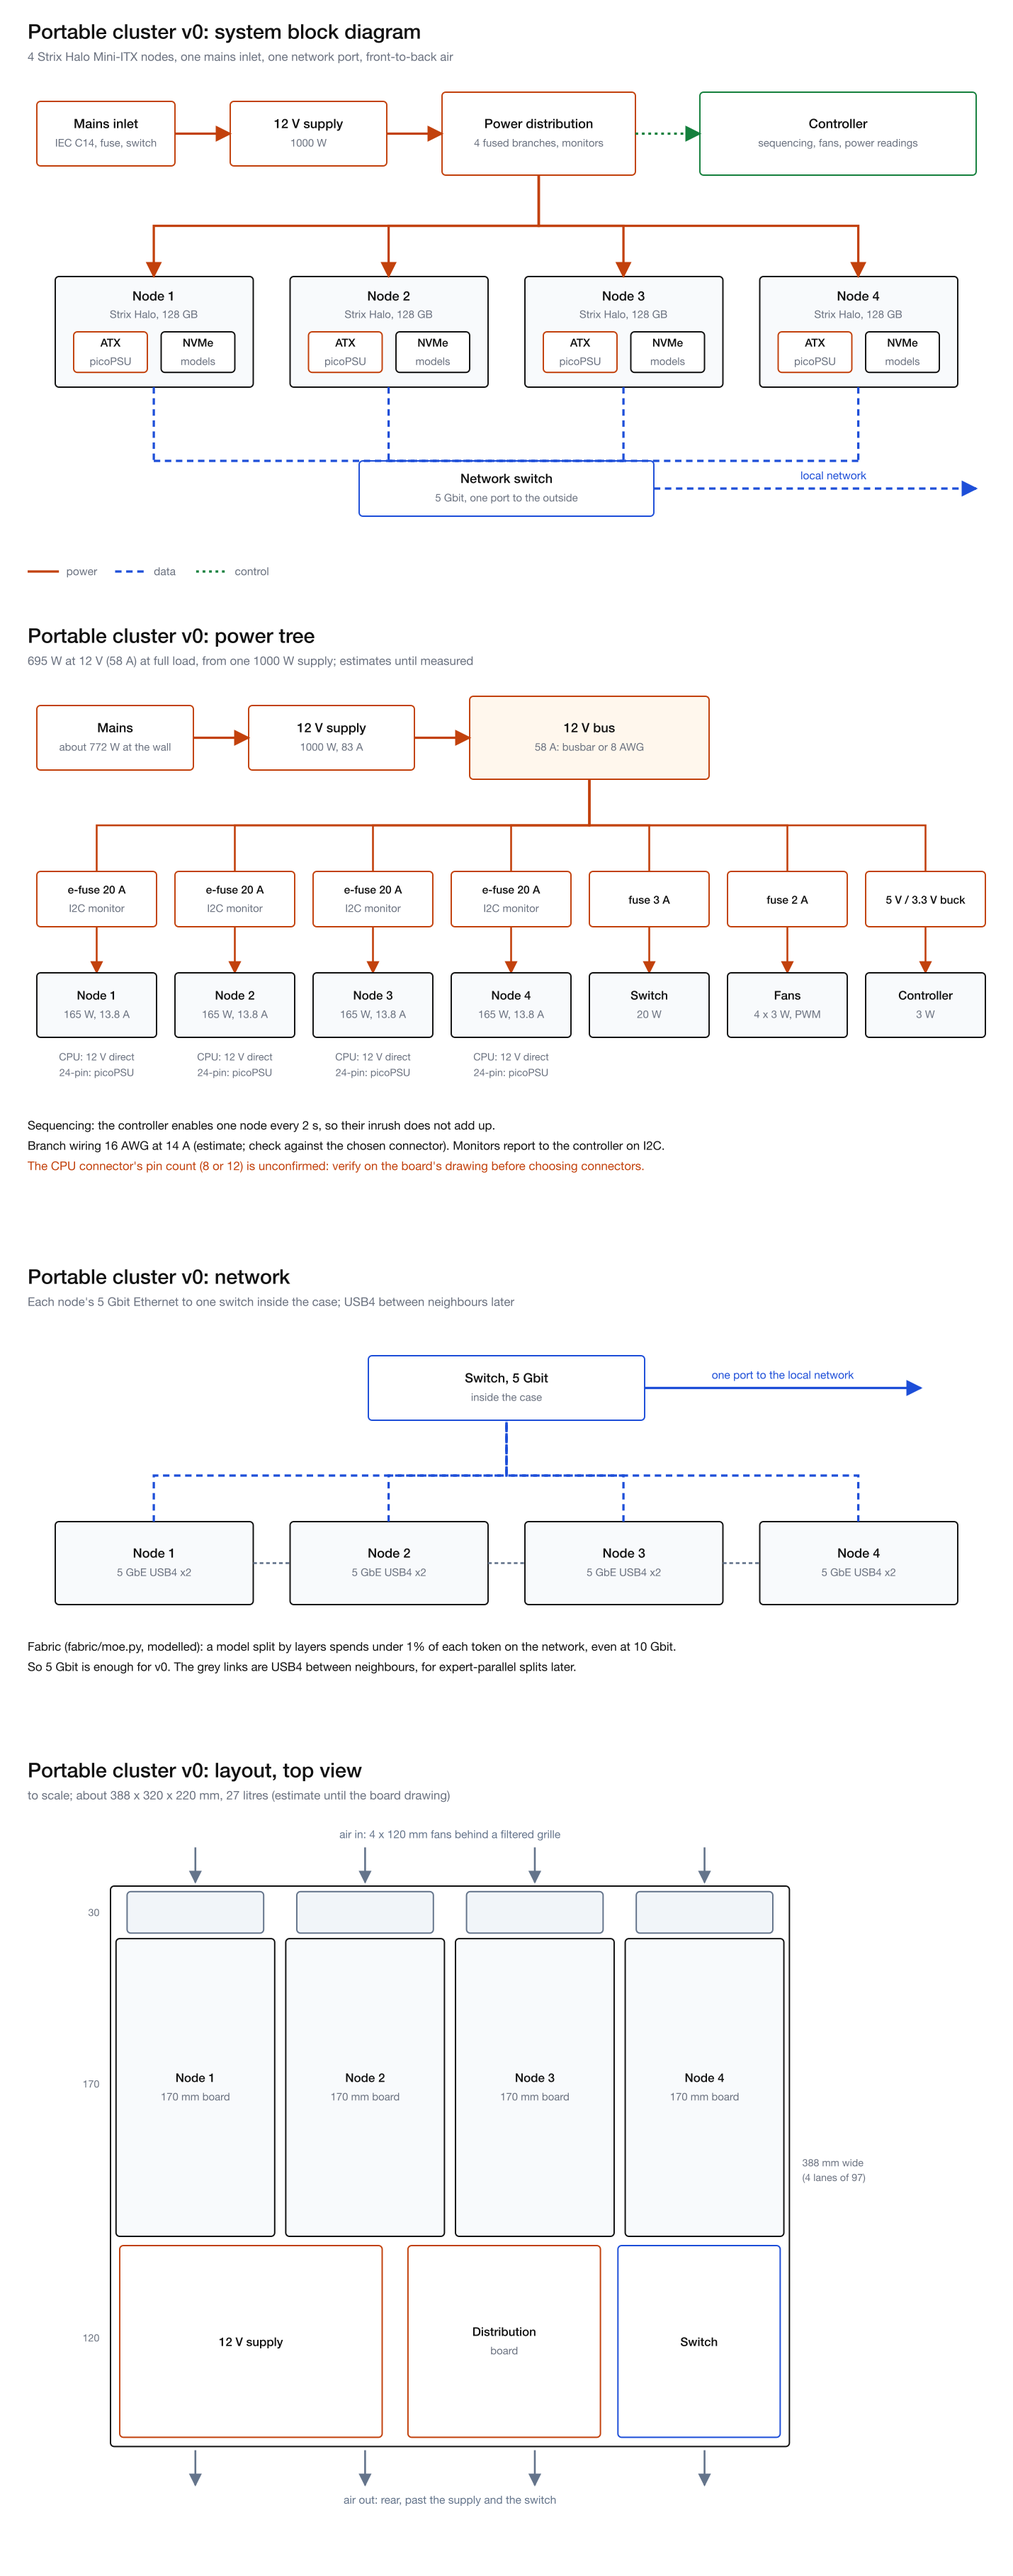
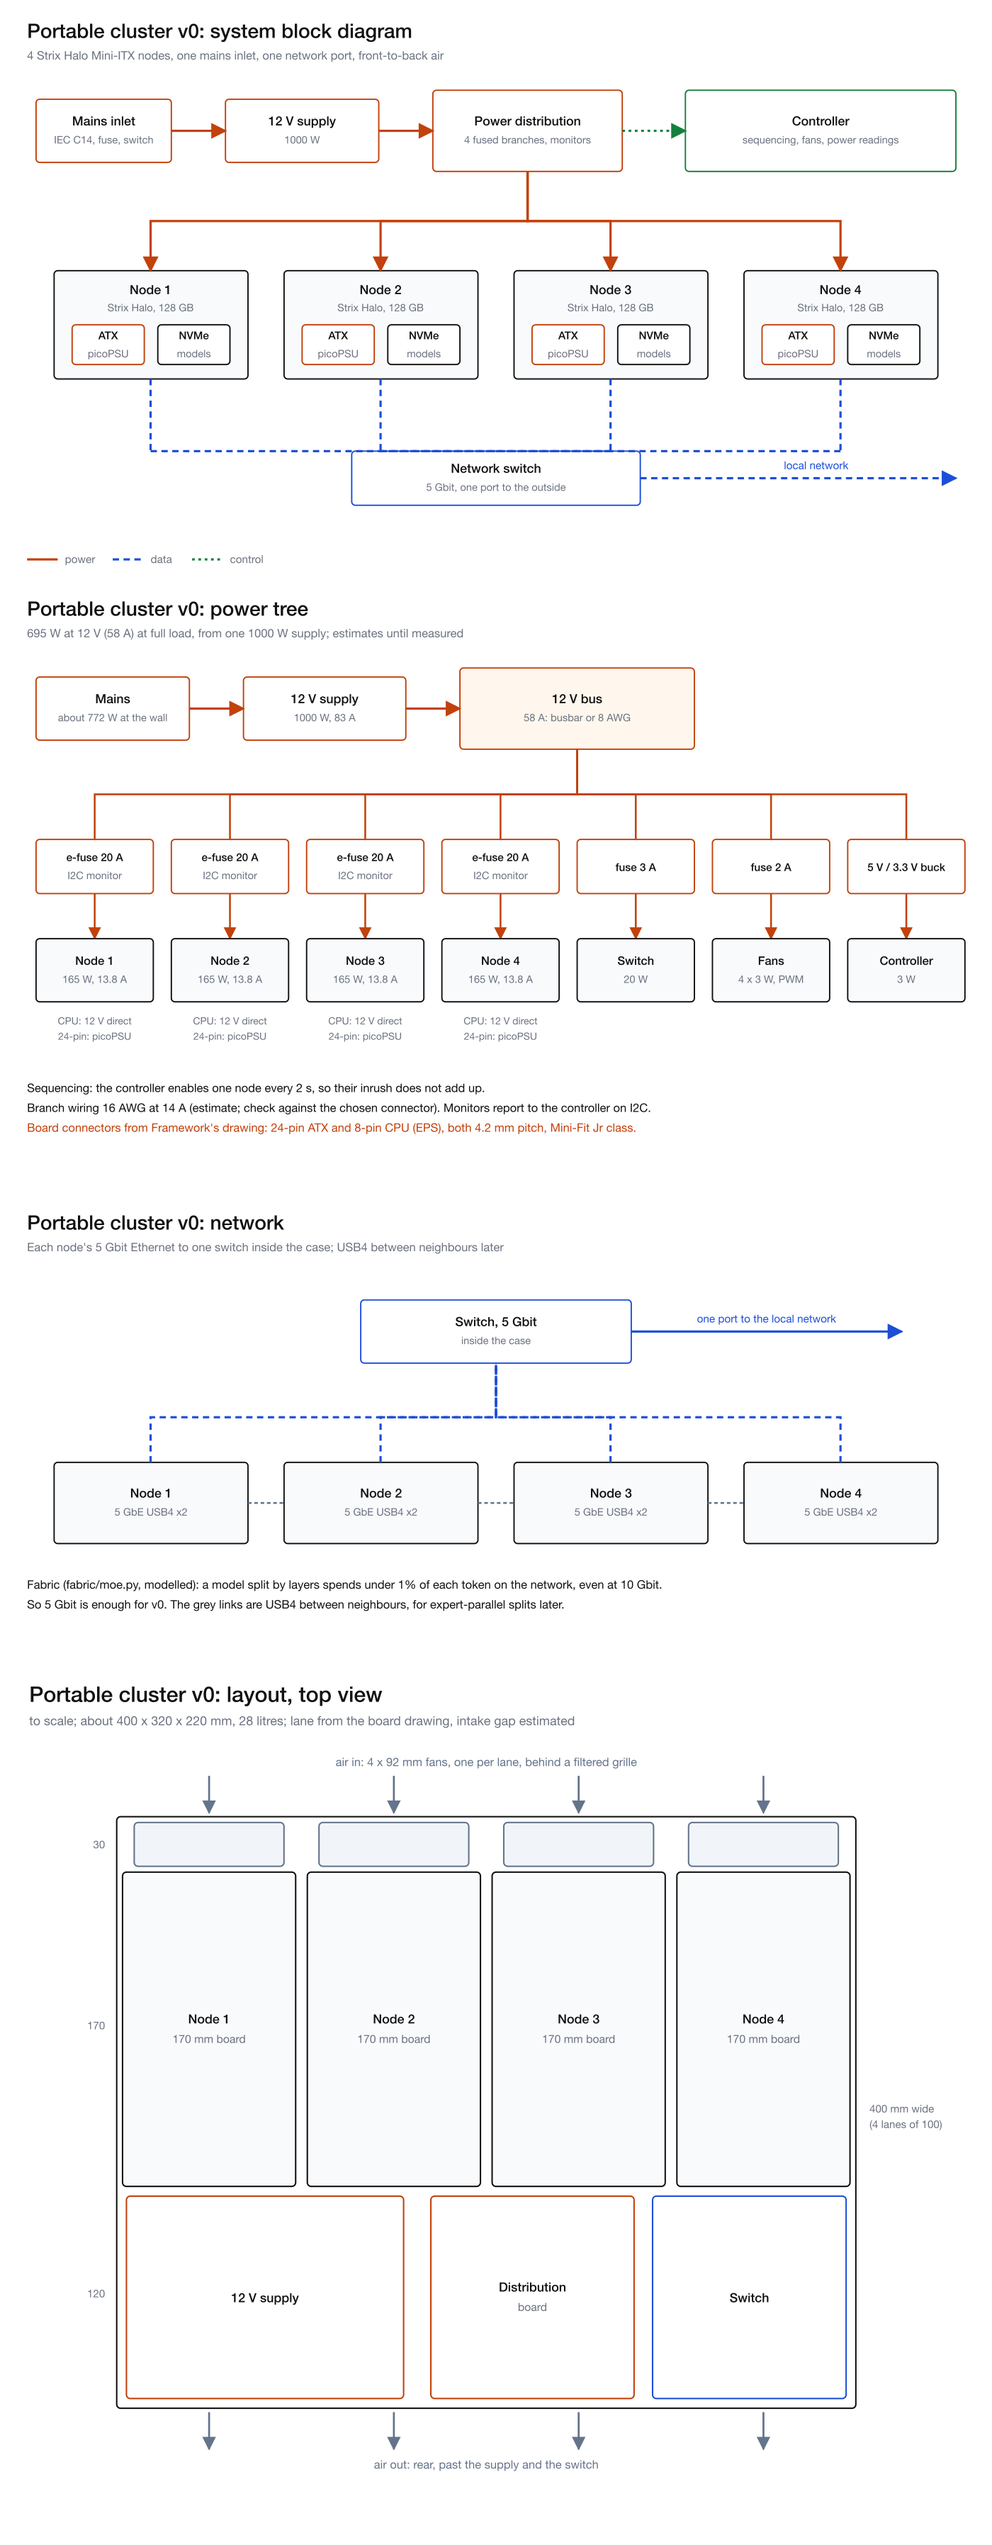
Portable cluster: board facts from Framework's mechanical drawing (Mini-ITX holes, 83.2 mm cooler stack, 8-pin EPS, 78 x 87 mm heatsink pattern); lane 100 mm, case 400 x 320 x 220 mm; intake fans 92 mm (four 120 mm fans do not fit four lanes)

diff --git a/docs/concepts/portable-cluster/draw.py b/docs/concepts/portable-cluster/draw.py
@@ -7,7 +7,7 @@ NODES = 4
 NODE_W12 = 165          # W per node at 12 V, peak (estimate)
 SWITCH_W, FAN_W, CTRL_W = 20, 3, 3
 PSU_W = 1000
-LANE, BOARD, FRONT, REAR, HEIGHT = 97, 170, 30, 120, 220   # mm
+LANE, BOARD, FRONT, REAR, HEIGHT = 100, 170, 30, 120, 220   # mm; lane = tray 1.5 + standoff 6.35 + board 1.6 + cooler 77.7 + intake gap 12 (estimate)
 POWER, DATA, CTRL, AIR, INK, MUTE = "#c2410c", "#1d4ed8", "#15803d", "#64748b", "#111111", "#6b7280"
 FONT = "font-family='Helvetica Neue, Helvetica, Arial, sans-serif'"
 
@@ -95,7 +95,7 @@ for i, (name, load, prot) in enumerate(branches):
         s.text(x + 65, 512, "24-pin: picoPSU", 11, MUTE, "middle")
 s.text(30, 570, "Sequencing: the controller enables one node every 2 s, so their inrush does not add up.", 13, INK)
 s.text(30, 592, "Branch wiring 16 AWG at 14 A (estimate; check against the chosen connector). Monitors report to the controller on I2C.", 13, INK)
-s.text(30, 614, "The CPU connector's pin count (8 or 12) is unconfirmed: verify on the board's drawing before choosing connectors.", 13, POWER)
+s.text(30, 614, "Board connectors from Framework's drawing: 24-pin ATX and 8-pin CPU (EPS), both 4.2 mm pitch, Mini-Fit Jr class.", 13, POWER)
 s.save("power.svg")
 
 # --- network.svg ------------------------------------------------------------------------------------------------
@@ -115,7 +115,7 @@ s.save("network.svg")
 # --- layout.svg: top view, mm to scale ---------------------------------------------------------------------------
 k = 1.9
 W, D = NODES * LANE, FRONT + BOARD + REAR
-s = Sheet(int(W * k) + 260, int(D * k) + 300, "Portable cluster v0: layout, top view", f"to scale; about {W} x {D} x {HEIGHT} mm, {W * D * HEIGHT / 1e6:.0f} litres (estimate until the board drawing)")
+s = Sheet(int(W * k) + 260, int(D * k) + 300, "Portable cluster v0: layout, top view", f"to scale; about {W} x {D} x {HEIGHT} mm, {W * D * HEIGHT / 1e6:.0f} litres; lane from the board drawing, intake gap estimated")
 ox, oy = 120, 160
 s.rect(ox, oy, W * k, D * k, "", "", INK)
 for i in range(NODES):
@@ -128,7 +128,7 @@ by = oy + (FRONT + BOARD) * k
 s.rect(ox + 10, by + 10, 150 * k, REAR * k - 20, "12 V supply", "", POWER, size=13)
 s.rect(ox + 170 * k, by + 10, 110 * k, REAR * k - 20, "Distribution", "board", POWER, size=13)
 s.rect(ox + 290 * k, by + 10, W * k - 290 * k - 10, REAR * k - 20, "Switch", "", DATA, size=13)
-s.text(ox + W * k / 2, oy - 52, "air in: 4 x 120 mm fans behind a filtered grille", 12, AIR, "middle")
+s.text(ox + W * k / 2, oy - 52, "air in: 4 x 92 mm fans, one per lane, behind a filtered grille", 12, AIR, "middle")
 s.text(ox + W * k / 2, oy + D * k + 62, "air out: rear, past the supply and the switch", 12, AIR, "middle")
 s.text(ox - 12, oy + FRONT * k / 2 + 4, f"{FRONT}", 11, MUTE, "end"); s.text(ox - 12, oy + (FRONT + BOARD / 2) * k, f"{BOARD}", 11, MUTE, "end")
 s.text(ox - 12, by + REAR * k / 2, f"{REAR}", 11, MUTE, "end"); s.text(ox + W * k + 14, oy + D * k / 2, f"{W} mm wide", 11, MUTE); s.text(ox + W * k + 14, oy + D * k / 2 + 16, f"({NODES} lanes of {LANE})", 11, MUTE)

diff --git a/docs/concepts/portable-cluster/README.md b/docs/concepts/portable-cluster/README.md
@@ -19,14 +19,14 @@ DeepSeek V4 Flash on one or two nodes, GLM-5.2 on three (`fabric/moe.py`), or fo
 
 | node fact | value | label |
 |---|---|---|
-| board | Mini-ITX, 170 x 170 mm | sourced (Mini-ITX format) |
-| power connectors | 24-pin ATX, plus a CPU connector (8-pin or 12-pin: sources disagree) | sourced, to verify |
+| board | Mini-ITX, 170 x 170 mm, 1.6 mm thick; four 3.96 mm holes in the standard Mini-ITX pattern (154.94 x 157.48 mm, top-left hole offset 22.86 mm) | sourced ([Framework drawing](https://github.com/FrameworkComputer/Framework-Desktop/blob/main/Mainboard/FRAMEWORK_DESKTOP_MAIN_PCB_V0.pdf), sheet 2) |
+| power connectors | 24-pin ATX and an 8-pin CPU (EPS) connector, both 4.2 mm pitch wire-to-board (Bellwether 70387-2468 and 70387-0868, Mini-Fit Jr class), on the edge beside the PCIe slot | sourced ([Framework drawing](https://github.com/FrameworkComputer/Framework-Desktop/blob/main/Mainboard/FRAMEWORK_DESKTOP_MAIN_PCB_V0.pdf), sheet 1 parts list; Framework knowledge base) |
 | power | 120 W sustained, 140 W boost (Framework setting) | sourced |
 | peak at the wall, one mini PC | 160 to 180 W | sourced (ServeTheHome) |
 | idle | about 20 W package | measured (Fabric cost table) |
 | network | 5 Gbit Ethernet, 2 x USB4, PCIe x4 slot | sourced (Framework, reviews) |
-| cooling | 120 mm fan on a six-heatpipe heatsink | sourced |
-| width with cooler | at most 96.8 mm (Framework's own case is that wide) | sourced, upper bound |
+| cooling | 120 mm fan on a heatsink with a duct, fan blowing onto the board; heatsink screws on a 78.0 x 87.0 mm pattern (custom, not a socket standard) | sourced ([Framework drawing](https://github.com/FrameworkComputer/Framework-Desktop/blob/main/Mainboard/FRAMEWORK_DESKTOP_MAIN_PCB_V0.pdf), sheet 6) |
+| height with cooler | 83.2 mm at most from the underside parts to the top of the duct (fan 75.88 mm); the underside parts stand at most 3.0 mm, so standard 6.35 mm standoffs clear them | sourced ([Framework drawing](https://github.com/FrameworkComputer/Framework-Desktop/blob/main/Mainboard/FRAMEWORK_DESKTOP_MAIN_PCB_V0.pdf), sheets 3 and 6) |
 
 ## 2. Power budget
 
@@ -34,7 +34,7 @@ DeepSeek V4 Flash on one or two nodes, GLM-5.2 on three (`fabric/moe.py`), or fo
 |---|---:|---:|---:|---|
 | node, peak at 12 V | 165 W | 4 | 660 W | estimate (180 W wall less supply loss) |
 | network switch | 20 W | 1 | 20 W | estimate |
-| intake fans, 120 mm | 3 W | 4 | 12 W | estimate |
+| intake fans, 92 mm | 3 W | 4 | 12 W | estimate |
 | controller and front panel | 3 W | 1 | 3 W | estimate |
 | **total at 12 V** | | | **695 W (58 A)** | |
 
@@ -62,18 +62,22 @@ so 5 Gbit is enough for v0. USB4 between neighbouring nodes is a later option fo
 ## 5. Air
 
 About 700 W of heat. Air needed for a 15 C rise, from the heat equation (Q = m c dT): about 0.039 m3/s, or 82 CFM
-(estimate, sea-level air). Four 120 mm intake fans in front, one per node lane, each moving about 20 CFM through the
-lane at low speed, with each node's own cooler fan doing the rest. To verify with a fan-and-thermometer mock-up.
+(estimate, sea-level air). Four 92 mm intake fans in front, one per node lane, each moving about 20 CFM through the
+lane at moderate speed (a 120 mm fan is wider than a 100 mm lane; v0 drew four of them, which do not fit), with each node's own cooler fan doing the rest. To verify with a fan-and-thermometer mock-up.
 
-## 6. Size (estimate, to confirm with the board drawing)
+## 6. Size
 
-Nodes on edge in four lanes of 97 mm: about 388 mm wide. Depth: 30 mm intake and grille, 170 mm board, 120 mm rear bay
-for the supply, the switch and the distribution board: about 320 mm. Height: about 220 mm. About 27 litres, a little
-smaller than a cabin suitcase.
+Nodes on edge in four lanes of 100 mm. A lane is a 1.5 mm tray, a 6.35 mm standoff, the 1.6 mm board, 77.7 mm of
+cooler above the board (sourced) and a 12 mm gap for the cooler fan to draw from (estimate: to confirm with the
+mock-up, since a fan starved of intake air moves less). Four lanes: about 400 mm wide. Each board's rear I/O, with
+its Ethernet, faces the rear bay; its power connectors are on the edge beside the PCIe slot, which faces the case
+floor. Depth: 30 mm intake and grille, 170 mm board, 120 mm rear bay
+for the supply, the switch and the distribution board: about 320 mm. Height: about 220 mm. So 400 x 320 x 220 mm, about 28
+litres, a little smaller than a cabin suitcase.
 
 ## Open before anything is bought
 
-1. The board's mechanical drawing: mounting holes, keep-outs, cooler height.
-2. The CPU power connector's pin count.
-3. The 12 V supply model and its connectors.
-4. Whether five buyers want it (the brief's business column).
+1. The intake gap each cooler fan needs, from the mock-up. (The board's holes, keep-outs, cooler height and 8-pin CPU
+   connector were settled on 26 October from Framework's drawing.)
+2. The 12 V supply model and its connectors.
+3. Whether five buyers want it (the brief's business column).
